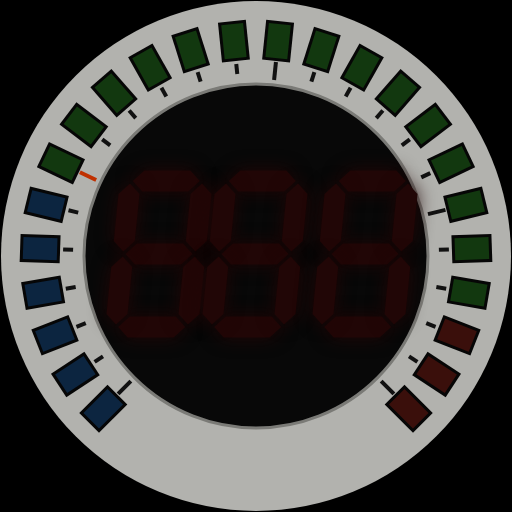
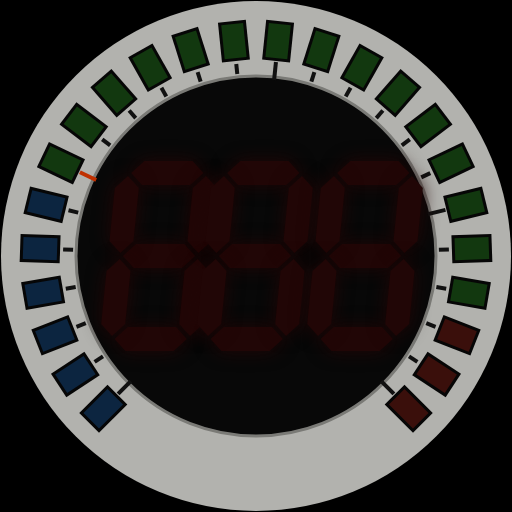
Round gauges: bigger digits, label and unit for reading from the driver's seat
From the seat the whole 52 mm face is only about 100 px across, so the 22 px label and 20 px unit
on the 512 px texture came out about 4 px tall. Digits are about 20 % bigger (72x146 -> 78x166),
the label 40 px and the unit 36 px; PEAK and COLD replace the label in the same large text. The
4-digit EGT layout still fits; the white faceplate's display window grows to fit the larger digits.
All printed faces re-baked with tools/bake_faces.py.

Claude-Session: https://claude.ai/code/session_01K5KayftLCWnPDCzju16QUq

Changed region(s): [[0.125, 0.125, 0.875, 0.875]]

diff --git a/vehicles/common/pillar_pod_gauges/screen.html b/vehicles/common/pillar_pod_gauges/screen.html
@@ -68,7 +68,8 @@ var SEG = {
   "5": "acdfg", "6": "acdefg", "7": "abc", "8": "abcdefg", "9": "abcdfg",
   "-": "g", " ": ""
 };
-var DW = 72, DH = 146, DT = 21, GAP = 24, PAD = 34;
+// sized for reading from the driver's seat, where the whole 52 mm face is only ~100 px across
+var DW = 78, DH = 166, DT = 24, GAP = 18, PAD = 38;
 
 function layer(w, h) {
   var c = document.createElement("canvas"); c.width = w; c.height = h; return c;
@@ -111,8 +112,9 @@ function drawDigit(g, ch, x, y, onCol, offCol) {
 // at 80 % size with tighter spacing so they fit the same window, like a 4-digit aftermarket EGT gauge
 var TOTAL = DW * 3 + GAP * 2 + 14;
 var DX3 = [CX - TOTAL / 2 + 6, CX - TOTAL / 2 + 6 + DW + GAP, CX - TOTAL / 2 + 6 + DW * 2 + GAP * 2 + 14];
-var DY = 181;
-var S4 = 0.8, GAP4 = 14, TOTAL4 = DW * S4 * 4 + GAP4 * 3;
+var DY = 173;
+var TITLE_Y = DY + DH + 52;   // baseline of the title (BOOST, OIL TEMP ...), also used for PEAK and COLD
+var S4 = 0.8, GAP4 = 10, TOTAL4 = DW * S4 * 4 + GAP4 * 3;
 var DX4 = [0, 1, 2, 3].map(function (k) { return CX - TOTAL4 / 2 + 4 + k * (DW * S4 + GAP4); });
 var DY4 = DY + DH * (1 - S4) / 2;
 var nDig = 3, DX = DX3, DS = 1, DYs = DY;  // active layout: digit count, x positions, scale, top
@@ -175,11 +177,11 @@ function buildBackground(on) {
   }
   g.textAlign = "center";
   g.fillStyle = "#f2f2f2";
-  g.font = "bold 22px Arial, Helvetica, sans-serif";
-  g.fillText(cfg.titleLabel, CX, DY + DH + 46);
+  g.font = "bold 40px Arial, Helvetica, sans-serif";
+  g.fillText(cfg.titleLabel, CX, TITLE_Y);
   g.fillStyle = "#ffb300";
-  g.font = "bold 20px Arial, Helvetica, sans-serif";
-  g.fillText(cfg.unitLabel, CX, DY - 24);
+  g.font = "bold 36px Arial, Helvetica, sans-serif";
+  g.fillText(cfg.unitLabel, CX, DY - 16);
   if (!cfg.printedDigits) { unlitDigits(g); g.shadowBlur = 0; }
   return c;
 }
@@ -190,7 +192,7 @@ function buildStaticFace(white) {
   g.fillStyle = "#000"; g.fillRect(0, 0, W, W);
   if (white) {
     g.beginPath(); g.arc(CX, CY, 255, 0, 7); g.fillStyle = "#b2b2ae"; g.fill();      // faceplate
-    g.beginPath(); g.arc(CX, CY, 172, 0, 7); g.fillStyle = "#080808"; g.fill();      // display window
+    g.beginPath(); g.arc(CX, CY, 180, 0, 7); g.fillStyle = "#080808"; g.fill();      // display window (fits the larger digits)
     g.lineWidth = 3; g.strokeStyle = "#7a7a76"; g.stroke();
   } else {
     g.beginPath(); g.arc(CX, CY, 255, 0, 7); g.fillStyle = "#0b0b0c"; g.fill();
@@ -235,7 +237,7 @@ function buildLayers() {
   }
   var pc = layer(60, 60), pg = pc.getContext("2d");
   pg.fillStyle = RED; pg.shadowColor = RED; pg.shadowBlur = 16;
-  pg.beginPath(); pg.arc(30, 30, 11, 0, Math.PI * 2); pg.fill();
+  pg.beginPath(); pg.arc(30, 30, 13, 0, Math.PI * 2); pg.fill();
   digitSprites["."] = pc;
 }
 
@@ -398,9 +400,10 @@ function render() {
   ctx.globalAlpha = 1;
   if (peak >= 0 && !shiftOn) { var ps = ledSprites[peak]; ctx.drawImage(ps.img, ps.x, ps.y); }
   if (cold) {                                   // oil not up to temperature yet
+    ctx.fillStyle = "#000"; ctx.fillRect(CX - 120, TITLE_Y - 36, 240, 46);     // in place of the title
     ctx.fillStyle = "#3aa8ff"; ctx.textAlign = "center";
-    ctx.font = "bold 20px Arial, Helvetica, sans-serif";
-    ctx.fillText("COLD", CX, DY + DH + 72);
+    ctx.font = "bold 40px Arial, Helvetica, sans-serif";
+    ctx.fillText("COLD", CX, TITLE_Y);
   }
   if (digitsOn && digA > 0.01) {
     ctx.globalAlpha = digA;
@@ -413,10 +416,10 @@ function render() {
     ctx.globalAlpha = 1;
   }
   if (recalling) {                              // swap the title for "PEAK"
-    ctx.fillStyle = "#000"; ctx.fillRect(CX - 90, DY + DH + 24, 180, 30);
+    ctx.fillStyle = "#000"; ctx.fillRect(CX - 120, TITLE_Y - 36, 240, 46);
     ctx.fillStyle = "#ffb300"; ctx.textAlign = "center";
-    ctx.font = "bold 22px Arial, Helvetica, sans-serif";
-    ctx.fillText("PEAK", CX, DY + DH + 46);
+    ctx.font = "bold 40px Arial, Helvetica, sans-serif";
+    ctx.fillText("PEAK", CX, TITLE_Y);
   }
   if (dim < 0.99) {                             // darken the whole display
     ctx.globalAlpha = 1 - dim;

diff --git a/CHANGELOG.md b/CHANGELOG.md
@@ -18,6 +18,12 @@ Fixes and polish. No new gauges, cars or parts.
   It doesn't run when the car spawns, after a reset, or when the engine stalls with the ignition
   still on. Turn it off in Tuning → Gauges → **Shut-Down Sweep**.
 
+### Changed
+- **Easier to read from the driver's seat.** The round gauges have bigger digits (about 20 %), and
+  the label (BOOST, OIL TEMP ...) and unit are almost twice as large. From the seat the whole face is
+  only about 100 pixels across, and the old 4-pixel labels couldn't be read. PEAK and COLD use the
+  same large text in place of the label.
+
 ### Checked
 - **Right-hand drive.** Every RHD mounting (pillar gauges, display, cluster) was checked against the
   game's own RHD interiors on both cars instead of a mirror of the LHD side. All of them fit, so
